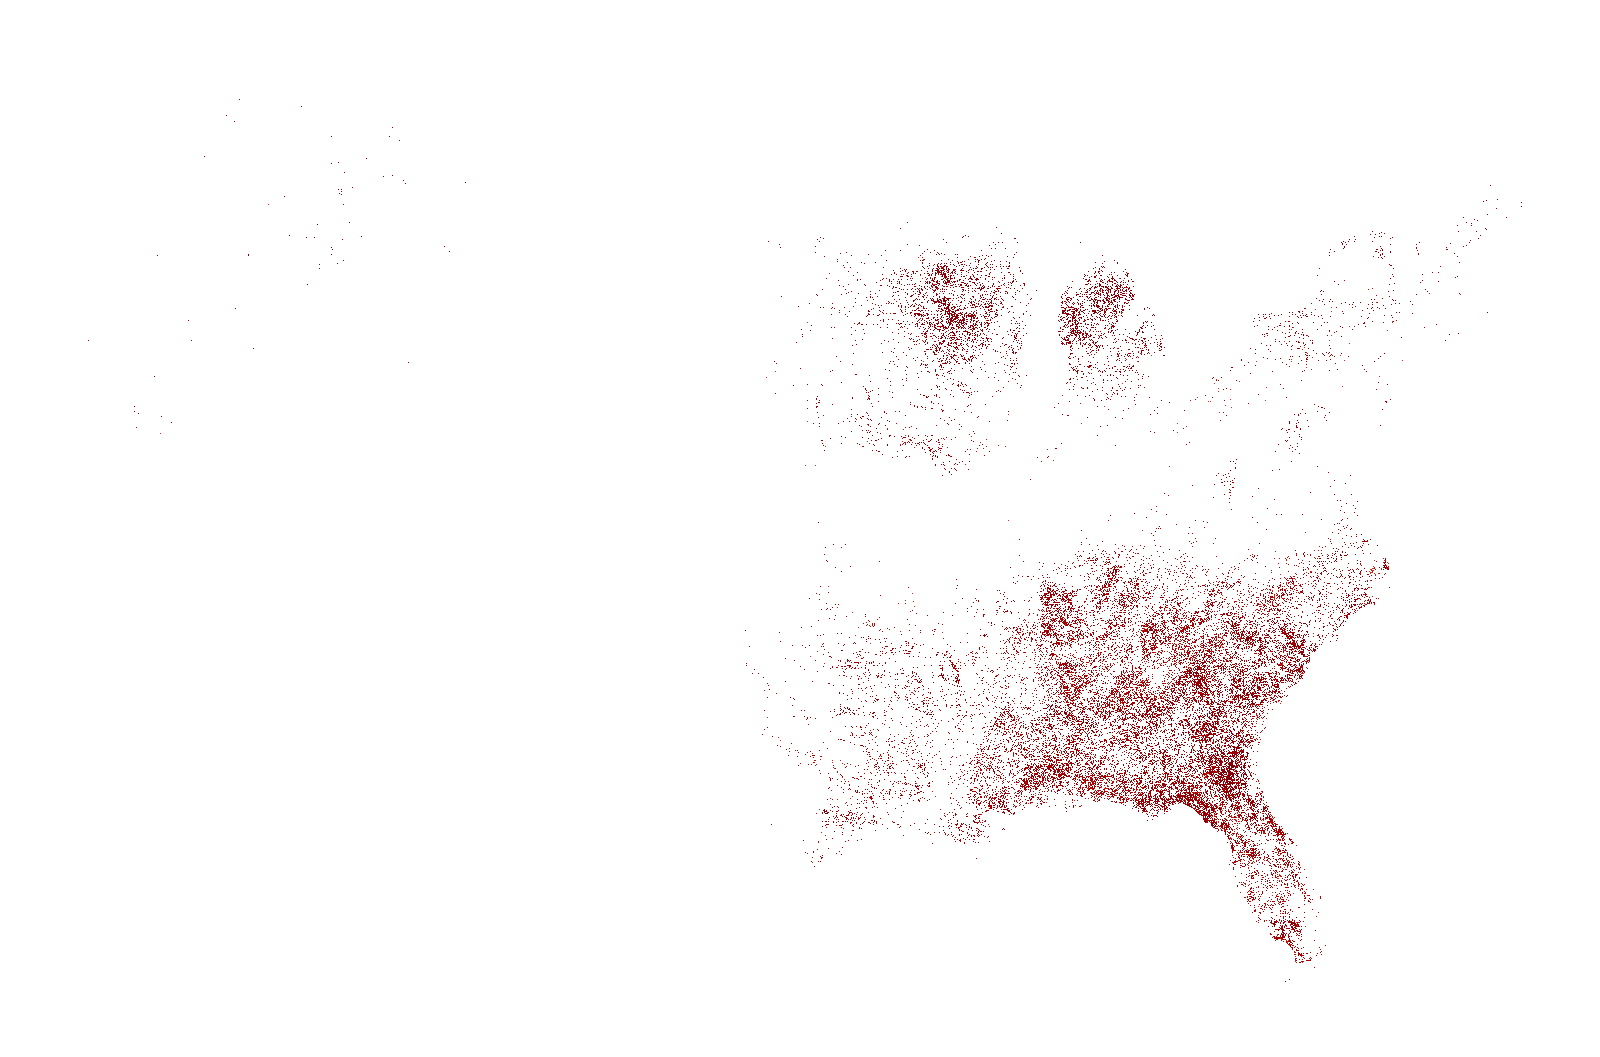
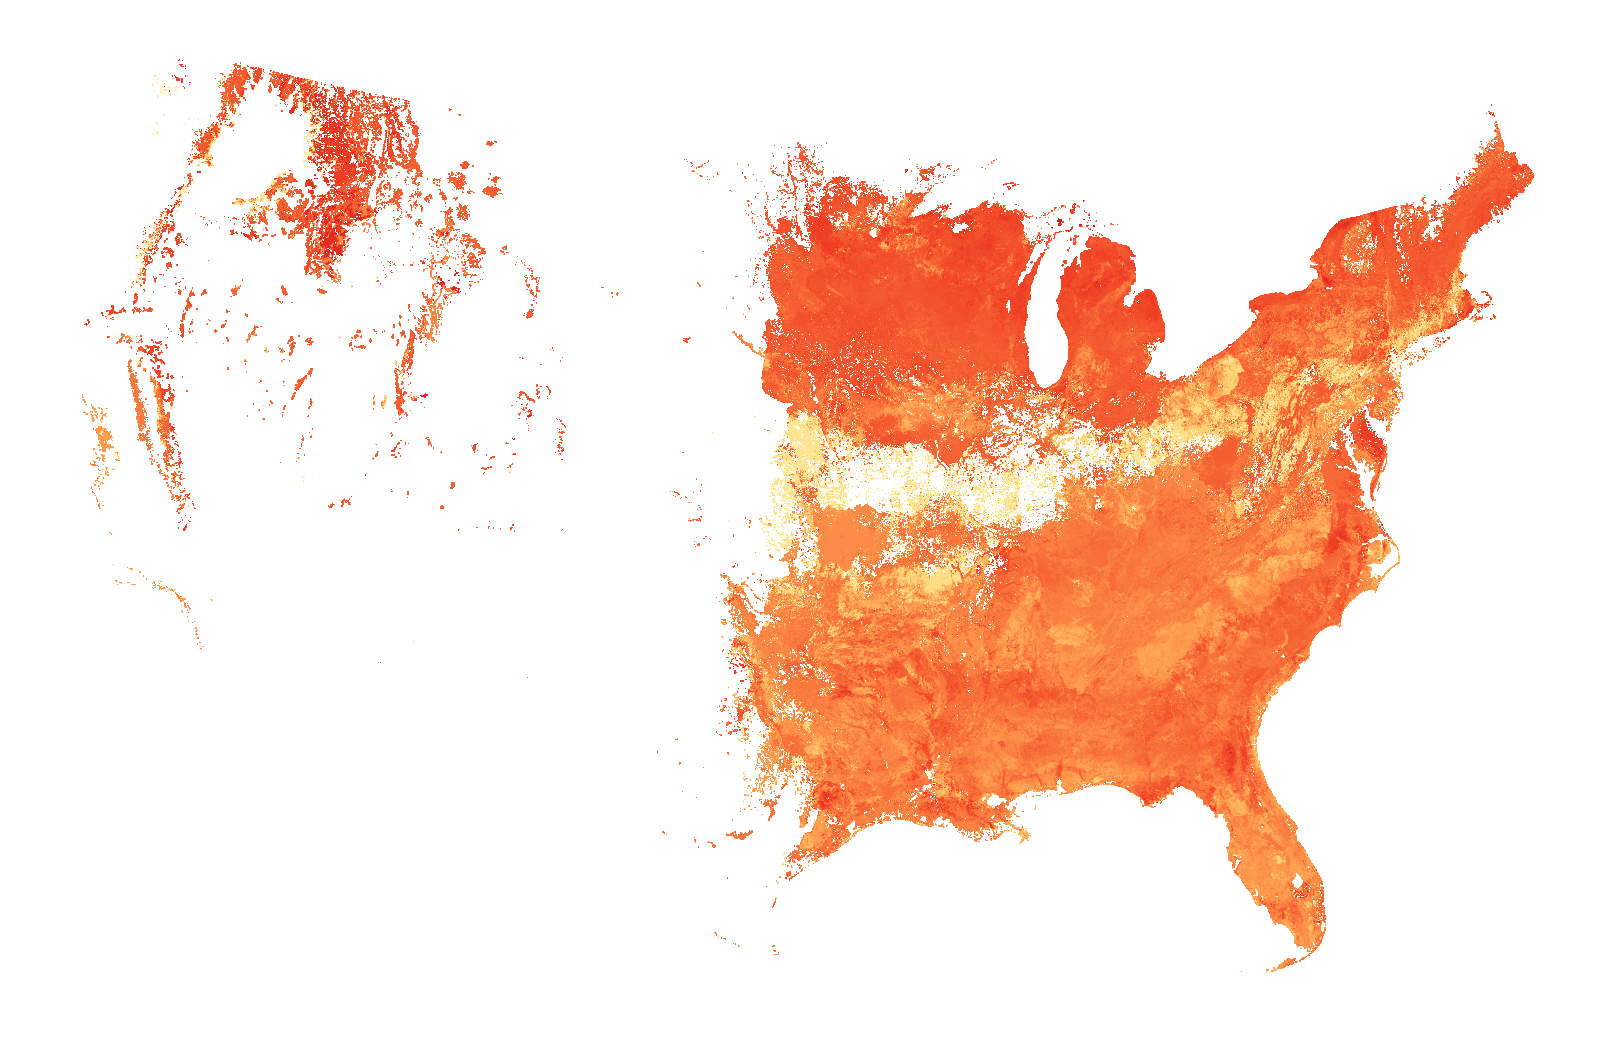
Full-CONUS harvest-probability rasters (Future risk bin)
Re-render p_harvest any/clearcut/partial from conus_hcs phase5_v1 TM2016 sources
to the overlay frame (5070->102003, streaming downsample then reproject; SLURM).
YlOrRd risk ramp 0.6-1.0; align the 3 legends to the render. Eastern + PNW
concentration reflects where commercial harvest occurs.

diff --git a/src/App.jsx b/src/App.jsx
@@ -129,23 +129,22 @@ const CONUS_LEGENDS = {
   p_harvest_any: {
     title: "P(harvest · any), TM2016",
     type: "ramp",
-    // GSEA-style hot diverging
-    ramp: ["#ffe9e9","#ffc0e5","#ff7080","#d60c00","#7a0500"],
-    lo: "0.0", mid: "0.5", hi: "1.0",
+    ramp: ["#ffffb2","#fecc5c","#fd8d3c","#f03b20","#bd0026"],
+    lo: "0.6", mid: "0.8", hi: "1.0",
     note: "Probability per pixel (conus_hcs v1)",
   },
   p_harvest_clearcut: {
     title: "P(stand replacement), TM2016",
     type: "ramp",
-    ramp: ["#ffe9e9","#ffc0e5","#ff7080","#d60c00","#7a0500"],
-    lo: "0.0", mid: "0.5", hi: "1.0",
+    ramp: ["#ffffb2","#fecc5c","#fd8d3c","#f03b20","#bd0026"],
+    lo: "0.6", mid: "0.8", hi: "1.0",
     note: "Forest-to-non-forest transition over the FIA cycle (stand replacement / forest loss), not silvicultural clearcut. conus_hcs v4.",
   },
   p_harvest_partial: {
     title: "P(harvest · partial), TM2016",
     type: "ramp",
-    ramp: ["#ffe9e9","#ffc0e5","#ff7080","#d60c00","#7a0500"],
-    lo: "0.0", mid: "0.5", hi: "1.0",
+    ramp: ["#ffffb2","#fecc5c","#fd8d3c","#f03b20","#bd0026"],
+    lo: "0.6", mid: "0.8", hi: "1.0",
     note: "Probability per pixel (conus_hcs v1)",
   },
   climate_stress: {